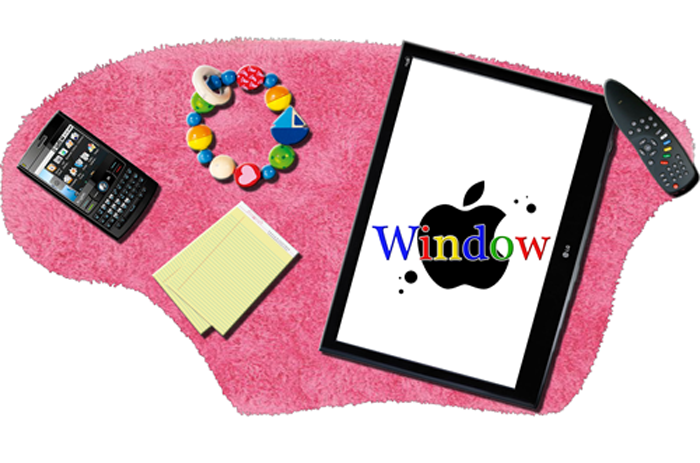
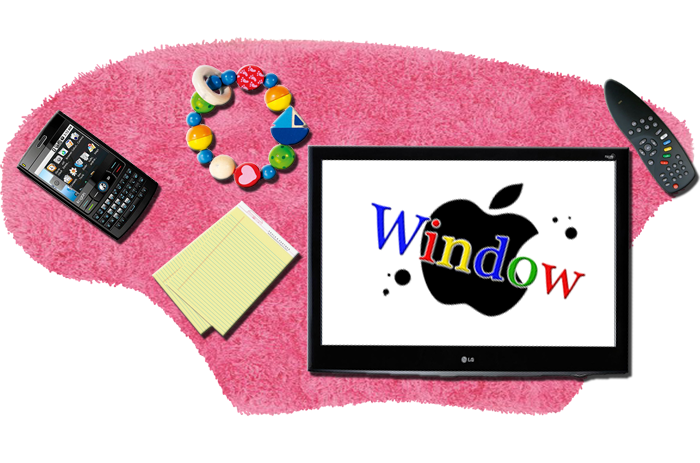
change Skin + first Gesturemenu parts

diff --git a/src/com/window/erdeedre/skins/SkinChooser.java b/src/com/window/erdeedre/skins/SkinChooser.java
@@ -1,10 +1,25 @@
 package com.window.erdeedre.skins;
 
 import com.window.erdeedre.customwindow.WindowRunnable;
+import com.window.erdeedre.customwindow.MenuPanel;
 
 public class SkinChooser {
 	
 	private WindowRunnable mainWindow;
+	
+	private static int cycleid=1;
+	
+	//init Skin Change
+	public SkinChooser(){
+		if(cycleid==2){
+			new SkinChooser(2,false);
+			cycleid=1;
+		}
+		else if(cycleid==1){
+			new SkinChooser(1,false);
+			cycleid=2;
+		}
+	}
 	
 	public SkinChooser(int id, boolean showSplashScreen) {
 		WindowRunnable splashScreen = null;
@@ -16,6 +31,7 @@ public class SkinChooser {
 			//Show the Window
 			splashScreen.run();  
 		}
+		
 		switch(id) {
 		case 1:
 			//Create Window, Set Title, Set Shape
@@ -31,20 +47,20 @@ public class SkinChooser {
 			mainWindow.getWindow().setminimizeValues( new ButtonValues("src/resources/images/style01/minus.png",
 													"src/resources/images/style01/minusmo.png",
 													"src/resources/images/style01/minusoc.png",640,110));
-			mainWindow.getWindow().settextValues( new ButtonValues("src/resources/images/style01/text.png",
-													"src/resources/images/style01/textmo.png",
-													"src/resources/images/style01/textoc.png",260,80));
+			mainWindow.getWindow().setskinValues( new ButtonValues("src/resources/images/style01/replace.png",
+													"src/resources/images/style01/replacemo.png",
+													"src/resources/images/style01/replaceoc.png",260,80));
 			mainWindow.getWindow().setgesturesValues( new ButtonValues("src/resources/images/style01/gesten.png",
 													"src/resources/images/style01/gestenmo.png",
 													"src/resources/images/style01/gestenoc.png",165,225));
 			mainWindow.getWindow().setexitValues( new ButtonValues("src/resources/images/style01/x.png",
 												"src/resources/images/style01/xmo.png",
 												"src/resources/images/style01/xoc.png",660,150));
-			
 			//Init Main Window
 			mainWindow.getWindow().initMainWindow();
 			//Set Window Background
-			mainWindow.getWindow().SetBackgroundImage("src/resources/images/style01/back.png");		
+			mainWindow.getWindow().SetBackgroundImage("src/resources/images/style01/back.png");
+			mainWindow.getWindow().setMenu(325, 164, 280, 170);
 		break;
 		case 2:
 			//Create Window, Set Title, Set Shape
@@ -60,9 +76,9 @@ public class SkinChooser {
 			mainWindow.getWindow().setminimizeValues( new ButtonValues("src/resources/images/style01/minus.png",
 													"src/resources/images/style01/minusmo.png",
 													"src/resources/images/style01/minusoc.png",548,215));
-			mainWindow.getWindow().settextValues( new ButtonValues("src/resources/images/style01/text.png",
-													"src/resources/images/style01/textmo.png",
-													"src/resources/images/style01/textoc.png",390,75));
+			mainWindow.getWindow().setskinValues( new ButtonValues("src/resources/images/style01/replace.png",
+												"src/resources/images/style01/replacemo.png",
+												"src/resources/images/style01/replaceoc.png",390,75));
 			mainWindow.getWindow().setgesturesValues( new ButtonValues("src/resources/images/style01/gesten.png",
 													"src/resources/images/style01/gestenmo.png",
 													"src/resources/images/style01/gestenoc.png",240,15));
@@ -72,7 +88,9 @@ public class SkinChooser {
 			//Init Main Window
 			mainWindow.getWindow().initMainWindow();
 			//Set Window Background
-			mainWindow.getWindow().SetBackgroundImage("src/resources/images/style02/back.png");	
+			mainWindow.getWindow().SetBackgroundImage("src/resources/images/style02/back.png");
+			//init GestureMenu
+			mainWindow.getWindow().setMenu(266, 204, 244, 140);
 		break;
 		}
 		if(showSplashScreen) {

diff --git a/src/com/window/erdeedre/customwindow/CustomWindow.java b/src/com/window/erdeedre/customwindow/CustomWindow.java
@@ -18,6 +18,7 @@ import com.window.erdeedre.customcomponents.ImageButtonLabel;
 import com.window.erdeedre.customcomponents.ImageButtonLabelCallBack;
 import com.window.erdeedre.customcomponents.ImageLabel;
 import com.window.erdeedre.skins.ButtonValues;
+import com.window.erdeedre.skins.SkinChooser;
 
 /**
  * Custom Window extends JFrame
@@ -30,10 +31,12 @@ public class CustomWindow extends JFrame implements MouseMotionListener, MouseLi
 	private CustomComponentAdapter customComponentAdapter;
 	private boolean mousedown=false, recording=false, isReadyToPlay=false, isMain=false;
 	private int mousex1, mousey1;
-	private ImageButtonLabel startStopRecord, playRecord, text, gestures, minimze, exit;
-	private ButtonValues startStopRecordValues, playRecordValues, textValues, gesturesValues, minimizeValues, exitValues;
+	private ImageButtonLabel startStopRecord, playRecord, skin, gestures, minimze, exit;
+	private ButtonValues startStopRecordValues, playRecordValues, skinValues, gesturesValues, minimizeValues, exitValues;
 	private ImageLabel background;
 	private AudioHelper audioHelper;	
+	
+	MenuPanel menu;
 	
 	public CustomWindow(String title, String imagePath) {
 		//Define Window Title
@@ -74,8 +77,8 @@ public class CustomWindow extends JFrame implements MouseMotionListener, MouseLi
 		this.playRecordValues = playRecordValues;
 	}
 	
-	public void settextValues(ButtonValues textValues) {
-		this.textValues = textValues;
+	public void setskinValues(ButtonValues skinValues) {
+		this.skinValues = skinValues;
 	}
 	
 	public void setgesturesValues(ButtonValues gesturesValues) {
@@ -104,14 +107,22 @@ public class CustomWindow extends JFrame implements MouseMotionListener, MouseLi
 		minimze = new ImageButtonLabel(this, minimizeValues);
 		this.add(minimze.getLabel());
 		
-		text = new ImageButtonLabel(this, textValues);
-		this.add(text.getLabel());
+		skin = new ImageButtonLabel(this, skinValues);
+		this.add(skin.getLabel());
 		
 		gestures = new ImageButtonLabel(this, gesturesValues);
 		this.add(gestures.getLabel());
 		
 		exit = new ImageButtonLabel(this, exitValues);
 		this.add(exit.getLabel());
+		
+		menu = new MenuPanel();
+		this.add(menu);
+		
+	}
+	public void setMenu(int x,int y,int sizex,int sizey){
+		menu.setBounds(x,y,sizex,sizey);
+		menu.setVisible(false);
 	}
 	
 	public void SetBackgroundImage(String imagePath) {
@@ -175,6 +186,28 @@ public class CustomWindow extends JFrame implements MouseMotionListener, MouseLi
 			isReadyToPlay=true;
 			return;
 		}
+		if(pressedButton==skin){
+			System.out.println("Skin Change Pressed");
+			//release old Screen and Audio ressources
+			this.dispose();
+			audioHelper.releaseAudio();
+			//init new Skin
+			new SkinChooser();
+			return;
+			}
+		
+		if(pressedButton==gestures){
+			System.out.println("GestureButton Pressed");
+			//release old Screen and Audio ressources
+			if(menu.isVisible()){
+				menu.setVisible(false);
+			}
+			else{
+				menu.setVisible(true);
+			}
+			return;
+			}
+		
 		if((pressedButton==playRecord) && (audioHelper.isPlayingAudio()==false) && (isReadyToPlay)) {
 			System.out.println("Button 3 Pressed");
 			//audioHelper.playReverseAudio();

diff --git a/src/com/window/erdeedre/customwindow/MenuPanel.java b/src/com/window/erdeedre/customwindow/MenuPanel.java
@@ -1,0 +1,57 @@
+package com.window.erdeedre.customwindow;
+import javax.swing.JPanel;
+import javax.swing.JButton;
+import javax.swing.JLabel;
+import java.awt.FlowLayout;
+import java.awt.List;
+import java.awt.BorderLayout;
+import javax.swing.JList;
+import javax.swing.ListSelectionModel;
+import javax.swing.AbstractListModel;
+import java.awt.ScrollPane;
+import java.awt.Scrollbar;
+import java.awt.Button;
+import java.awt.event.ActionListener;
+import java.awt.event.ActionEvent;
+import java.awt.Color;
+import java.awt.event.MouseAdapter;
+import java.awt.event.MouseEvent;
+
+
+public class MenuPanel extends JPanel {
+
+	/**
+	 * Create the panel.
+	 */
+	public MenuPanel() {
+		setBackground(Color.WHITE);
+		setLayout(null);
+		
+		JButton btnNewButton = new JButton("=(");
+		btnNewButton.addActionListener(new ActionListener() {
+			public void actionPerformed(ActionEvent arg0) {
+			}
+		});
+		btnNewButton.setBounds(10, 11, 89, 23);
+		add(btnNewButton);
+		
+		JButton btnNewButton_1 = new JButton("=)");
+		btnNewButton_1.setBounds(109, 11, 89, 23);
+		add(btnNewButton_1);
+		
+		JButton button = new JButton("-.-");
+		button.addMouseListener(new MouseAdapter() {
+			@Override
+			public void mouseClicked(MouseEvent e) {
+				
+			}
+		});
+		button.setBounds(10, 45, 89, 23);
+		add(button);
+		
+		JButton button_1 = new JButton("^.^");
+		button_1.setBounds(109, 45, 89, 23);
+		add(button_1);
+	
+	}
+}

diff --git a/src/com/window/erdeedre/audio/AudioHelper.java b/src/com/window/erdeedre/audio/AudioHelper.java
@@ -77,7 +77,9 @@ public class AudioHelper {
 	public void stopCaptureAudio() {
 		running = false;
 	}
-
+	public void releaseAudio(){
+		line.close();
+	}
 	public void playAudio(float speed) {
 		isPlayingAudio=true;
 		try {
